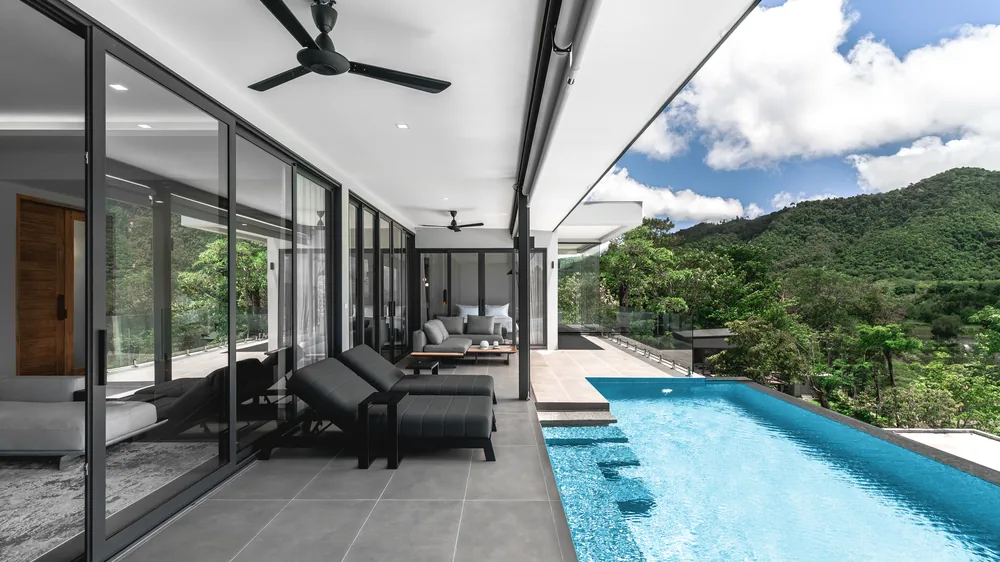
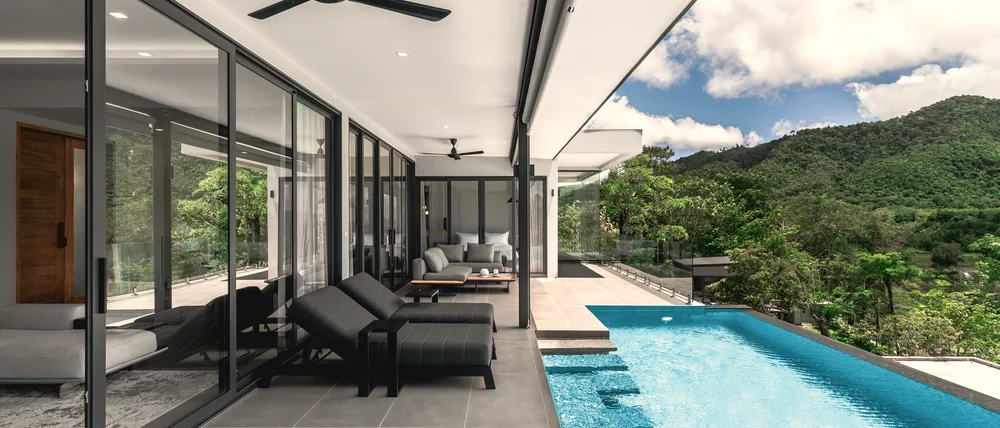
снимок в «Управлении»: полоса вместо простыни, и теплее под наши фото
Эльнур: «фото огроменная, запустил блок и даже фото не вместилось, очень
безвкусно» и «все фото на сайте тёплые, сделай её тоже чуть теплее».

Размер. Было 16:9 во всю ширину — на Маке это 1160×675, экран съеден целиком
и заголовок уезжает за край. Стало полосой 21:9 с потолком высоты
min(42vh, 420px): на том же Маке 1160×420, снимок крупный, но под ним сразу
виден текст. На телефоне по-прежнему 4:3 — там широкая полоса вырождается
в ниточку. Размеры в разметке обновлены, иначе страница дёргается при загрузке.

Тепло. Померил, а не на глаз: у наших фото R−B в среднем +12,2 — Katabello
+11,6, Sierra +34, Eden +10,3. У этого снимка было −8,7, то есть он холодный
и выбивался из ряда на двадцать один пункт. Поднял красный на 5,5%, приспустил
синий на 5,5%, зелёный не трогал. Стало +7,3 — теплее ряда не делаю, иначе
небо и вода уйдут в рыжину.

Claude-Session: https://claude.ai/code/session_01Kw4V7VyuJHJ7EJCHoawpoF

diff --git a/management.html b/management.html
@@ -1999,9 +1999,15 @@ body{background:var(--bg)}
    страница не дёргалась. object-fit:cover — на случай, если файл заменят другим.
    Правим ЗДЕСЬ: в index.html этот блок перезаписывается из build/parts. */
 .mng-hero{display:block;margin:0}
-.mng-hero img{display:block;width:100%;height:auto;aspect-ratio:16/9;object-fit:cover;
-  border-radius:24px;box-shadow:var(--shadow-sm)}
-@media(max-width:640px){ .mng-hero img{aspect-ratio:4/3;border-radius:18px} }
+/* 24.09, вторая правка. Эльнур: «фото огроменная, даже не вместилось, очень
+   безвкусно». Было 16:9 во всю ширину — на Маке это 1200×675, экран съеден
+   целиком и заголовок уезжает. Делаем полосой 21:9 и ставим потолок высоты:
+   снимок остаётся крупным, но под ним сразу виден текст. На телефоне
+   по-прежнему 4:3 — там широкая полоса вырождается в ниточку. */
+.mng-hero img{display:block;width:100%;height:auto;aspect-ratio:21/9;object-fit:cover;
+  max-height:min(42vh,420px);border-radius:22px;box-shadow:var(--shadow-sm)}
+@media(max-width:640px){
+  .mng-hero img{aspect-ratio:4/3;max-height:none;border-radius:18px} }
 
 /* Приём документа в кабинете: заметная зона под таблицей документов */
 .upzone{display:flex;flex-wrap:wrap;align-items:center;gap:10px;margin-top:12px;
@@ -2296,8 +2302,8 @@ body{background:var(--bg)}
 <section style="padding:18px 0 0"><div class="container">
   <picture class="mng-hero">
     <source media="(max-width:640px)" srcset="img/management-hero-mob-900.webp" width="900" height="600">
-    <source media="(max-width:1100px)" srcset="img/management-hero-1000.webp" width="1000" height="562">
-    <img src="img/management-hero-1600.webp" width="1600" height="900" loading="eager" decoding="async"
+    <source media="(max-width:1100px)" srcset="img/management-hero-1000.webp" width="1000" height="428">
+    <img src="img/management-hero-1600.webp" width="1600" height="685" loading="eager" decoding="async"
          alt="Терраса с бассейном на вилле под нашим управлением, Пхукет">
   </picture>
 </div></section>

diff --git a/about.html b/about.html
@@ -1891,9 +1891,15 @@ body{background:var(--bg)}
    страница не дёргалась. object-fit:cover — на случай, если файл заменят другим.
    Правим ЗДЕСЬ: в index.html этот блок перезаписывается из build/parts. */
 .mng-hero{display:block;margin:0}
-.mng-hero img{display:block;width:100%;height:auto;aspect-ratio:16/9;object-fit:cover;
-  border-radius:24px;box-shadow:var(--shadow-sm)}
-@media(max-width:640px){ .mng-hero img{aspect-ratio:4/3;border-radius:18px} }
+/* 24.09, вторая правка. Эльнур: «фото огроменная, даже не вместилось, очень
+   безвкусно». Было 16:9 во всю ширину — на Маке это 1200×675, экран съеден
+   целиком и заголовок уезжает. Делаем полосой 21:9 и ставим потолок высоты:
+   снимок остаётся крупным, но под ним сразу виден текст. На телефоне
+   по-прежнему 4:3 — там широкая полоса вырождается в ниточку. */
+.mng-hero img{display:block;width:100%;height:auto;aspect-ratio:21/9;object-fit:cover;
+  max-height:min(42vh,420px);border-radius:22px;box-shadow:var(--shadow-sm)}
+@media(max-width:640px){
+  .mng-hero img{aspect-ratio:4/3;max-height:none;border-radius:18px} }
 
 /* Приём документа в кабинете: заметная зона под таблицей документов */
 .upzone{display:flex;flex-wrap:wrap;align-items:center;gap:10px;margin-top:12px;

diff --git a/add-property.html b/add-property.html
@@ -1725,9 +1725,15 @@ body{background:var(--bg)}
    страница не дёргалась. object-fit:cover — на случай, если файл заменят другим.
    Правим ЗДЕСЬ: в index.html этот блок перезаписывается из build/parts. */
 .mng-hero{display:block;margin:0}
-.mng-hero img{display:block;width:100%;height:auto;aspect-ratio:16/9;object-fit:cover;
-  border-radius:24px;box-shadow:var(--shadow-sm)}
-@media(max-width:640px){ .mng-hero img{aspect-ratio:4/3;border-radius:18px} }
+/* 24.09, вторая правка. Эльнур: «фото огроменная, даже не вместилось, очень
+   безвкусно». Было 16:9 во всю ширину — на Маке это 1200×675, экран съеден
+   целиком и заголовок уезжает. Делаем полосой 21:9 и ставим потолок высоты:
+   снимок остаётся крупным, но под ним сразу виден текст. На телефоне
+   по-прежнему 4:3 — там широкая полоса вырождается в ниточку. */
+.mng-hero img{display:block;width:100%;height:auto;aspect-ratio:21/9;object-fit:cover;
+  max-height:min(42vh,420px);border-radius:22px;box-shadow:var(--shadow-sm)}
+@media(max-width:640px){
+  .mng-hero img{aspect-ratio:4/3;max-height:none;border-radius:18px} }
 
 /* Приём документа в кабинете: заметная зона под таблицей документов */
 .upzone{display:flex;flex-wrap:wrap;align-items:center;gap:10px;margin-top:12px;

diff --git a/buy.html b/buy.html
@@ -1999,9 +1999,15 @@ body{background:var(--bg)}
    страница не дёргалась. object-fit:cover — на случай, если файл заменят другим.
    Правим ЗДЕСЬ: в index.html этот блок перезаписывается из build/parts. */
 .mng-hero{display:block;margin:0}
-.mng-hero img{display:block;width:100%;height:auto;aspect-ratio:16/9;object-fit:cover;
-  border-radius:24px;box-shadow:var(--shadow-sm)}
-@media(max-width:640px){ .mng-hero img{aspect-ratio:4/3;border-radius:18px} }
+/* 24.09, вторая правка. Эльнур: «фото огроменная, даже не вместилось, очень
+   безвкусно». Было 16:9 во всю ширину — на Маке это 1200×675, экран съеден
+   целиком и заголовок уезжает. Делаем полосой 21:9 и ставим потолок высоты:
+   снимок остаётся крупным, но под ним сразу виден текст. На телефоне
+   по-прежнему 4:3 — там широкая полоса вырождается в ниточку. */
+.mng-hero img{display:block;width:100%;height:auto;aspect-ratio:21/9;object-fit:cover;
+  max-height:min(42vh,420px);border-radius:22px;box-shadow:var(--shadow-sm)}
+@media(max-width:640px){
+  .mng-hero img{aspect-ratio:4/3;max-height:none;border-radius:18px} }
 
 /* Приём документа в кабинете: заметная зона под таблицей документов */
 .upzone{display:flex;flex-wrap:wrap;align-items:center;gap:10px;margin-top:12px;

diff --git a/districts/bang-tao.html b/districts/bang-tao.html
@@ -1999,9 +1999,15 @@ body{background:var(--bg)}
    страница не дёргалась. object-fit:cover — на случай, если файл заменят другим.
    Правим ЗДЕСЬ: в index.html этот блок перезаписывается из build/parts. */
 .mng-hero{display:block;margin:0}
-.mng-hero img{display:block;width:100%;height:auto;aspect-ratio:16/9;object-fit:cover;
-  border-radius:24px;box-shadow:var(--shadow-sm)}
-@media(max-width:640px){ .mng-hero img{aspect-ratio:4/3;border-radius:18px} }
+/* 24.09, вторая правка. Эльнур: «фото огроменная, даже не вместилось, очень
+   безвкусно». Было 16:9 во всю ширину — на Маке это 1200×675, экран съеден
+   целиком и заголовок уезжает. Делаем полосой 21:9 и ставим потолок высоты:
+   снимок остаётся крупным, но под ним сразу виден текст. На телефоне
+   по-прежнему 4:3 — там широкая полоса вырождается в ниточку. */
+.mng-hero img{display:block;width:100%;height:auto;aspect-ratio:21/9;object-fit:cover;
+  max-height:min(42vh,420px);border-radius:22px;box-shadow:var(--shadow-sm)}
+@media(max-width:640px){
+  .mng-hero img{aspect-ratio:4/3;max-height:none;border-radius:18px} }
 
 /* Приём документа в кабинете: заметная зона под таблицей документов */
 .upzone{display:flex;flex-wrap:wrap;align-items:center;gap:10px;margin-top:12px;

diff --git a/districts/kamala.html b/districts/kamala.html
@@ -1999,9 +1999,15 @@ body{background:var(--bg)}
    страница не дёргалась. object-fit:cover — на случай, если файл заменят другим.
    Правим ЗДЕСЬ: в index.html этот блок перезаписывается из build/parts. */
 .mng-hero{display:block;margin:0}
-.mng-hero img{display:block;width:100%;height:auto;aspect-ratio:16/9;object-fit:cover;
-  border-radius:24px;box-shadow:var(--shadow-sm)}
-@media(max-width:640px){ .mng-hero img{aspect-ratio:4/3;border-radius:18px} }
+/* 24.09, вторая правка. Эльнур: «фото огроменная, даже не вместилось, очень
+   безвкусно». Было 16:9 во всю ширину — на Маке это 1200×675, экран съеден
+   целиком и заголовок уезжает. Делаем полосой 21:9 и ставим потолок высоты:
+   снимок остаётся крупным, но под ним сразу виден текст. На телефоне
+   по-прежнему 4:3 — там широкая полоса вырождается в ниточку. */
+.mng-hero img{display:block;width:100%;height:auto;aspect-ratio:21/9;object-fit:cover;
+  max-height:min(42vh,420px);border-radius:22px;box-shadow:var(--shadow-sm)}
+@media(max-width:640px){
+  .mng-hero img{aspect-ratio:4/3;max-height:none;border-radius:18px} }
 
 /* Приём документа в кабинете: заметная зона под таблицей документов */
 .upzone{display:flex;flex-wrap:wrap;align-items:center;gap:10px;margin-top:12px;

diff --git a/districts/kata.html b/districts/kata.html
@@ -1999,9 +1999,15 @@ body{background:var(--bg)}
    страница не дёргалась. object-fit:cover — на случай, если файл заменят другим.
    Правим ЗДЕСЬ: в index.html этот блок перезаписывается из build/parts. */
 .mng-hero{display:block;margin:0}
-.mng-hero img{display:block;width:100%;height:auto;aspect-ratio:16/9;object-fit:cover;
-  border-radius:24px;box-shadow:var(--shadow-sm)}
-@media(max-width:640px){ .mng-hero img{aspect-ratio:4/3;border-radius:18px} }
+/* 24.09, вторая правка. Эльнур: «фото огроменная, даже не вместилось, очень
+   безвкусно». Было 16:9 во всю ширину — на Маке это 1200×675, экран съеден
+   целиком и заголовок уезжает. Делаем полосой 21:9 и ставим потолок высоты:
+   снимок остаётся крупным, но под ним сразу виден текст. На телефоне
+   по-прежнему 4:3 — там широкая полоса вырождается в ниточку. */
+.mng-hero img{display:block;width:100%;height:auto;aspect-ratio:21/9;object-fit:cover;
+  max-height:min(42vh,420px);border-radius:22px;box-shadow:var(--shadow-sm)}
+@media(max-width:640px){
+  .mng-hero img{aspect-ratio:4/3;max-height:none;border-radius:18px} }
 
 /* Приём документа в кабинете: заметная зона под таблицей документов */
 .upzone{display:flex;flex-wrap:wrap;align-items:center;gap:10px;margin-top:12px;

diff --git a/districts/koh-kaew.html b/districts/koh-kaew.html
@@ -1999,9 +1999,15 @@ body{background:var(--bg)}
    страница не дёргалась. object-fit:cover — на случай, если файл заменят другим.
    Правим ЗДЕСЬ: в index.html этот блок перезаписывается из build/parts. */
 .mng-hero{display:block;margin:0}
-.mng-hero img{display:block;width:100%;height:auto;aspect-ratio:16/9;object-fit:cover;
-  border-radius:24px;box-shadow:var(--shadow-sm)}
-@media(max-width:640px){ .mng-hero img{aspect-ratio:4/3;border-radius:18px} }
+/* 24.09, вторая правка. Эльнур: «фото огроменная, даже не вместилось, очень
+   безвкусно». Было 16:9 во всю ширину — на Маке это 1200×675, экран съеден
+   целиком и заголовок уезжает. Делаем полосой 21:9 и ставим потолок высоты:
+   снимок остаётся крупным, но под ним сразу виден текст. На телефоне
+   по-прежнему 4:3 — там широкая полоса вырождается в ниточку. */
+.mng-hero img{display:block;width:100%;height:auto;aspect-ratio:21/9;object-fit:cover;
+  max-height:min(42vh,420px);border-radius:22px;box-shadow:var(--shadow-sm)}
+@media(max-width:640px){
+  .mng-hero img{aspect-ratio:4/3;max-height:none;border-radius:18px} }
 
 /* Приём документа в кабинете: заметная зона под таблицей документов */
 .upzone{display:flex;flex-wrap:wrap;align-items:center;gap:10px;margin-top:12px;

diff --git a/districts/layan.html b/districts/layan.html
@@ -1999,9 +1999,15 @@ body{background:var(--bg)}
    страница не дёргалась. object-fit:cover — на случай, если файл заменят другим.
    Правим ЗДЕСЬ: в index.html этот блок перезаписывается из build/parts. */
 .mng-hero{display:block;margin:0}
-.mng-hero img{display:block;width:100%;height:auto;aspect-ratio:16/9;object-fit:cover;
-  border-radius:24px;box-shadow:var(--shadow-sm)}
-@media(max-width:640px){ .mng-hero img{aspect-ratio:4/3;border-radius:18px} }
+/* 24.09, вторая правка. Эльнур: «фото огроменная, даже не вместилось, очень
+   безвкусно». Было 16:9 во всю ширину — на Маке это 1200×675, экран съеден
+   целиком и заголовок уезжает. Делаем полосой 21:9 и ставим потолок высоты:
+   снимок остаётся крупным, но под ним сразу виден текст. На телефоне
+   по-прежнему 4:3 — там широкая полоса вырождается в ниточку. */
+.mng-hero img{display:block;width:100%;height:auto;aspect-ratio:21/9;object-fit:cover;
+  max-height:min(42vh,420px);border-radius:22px;box-shadow:var(--shadow-sm)}
+@media(max-width:640px){
+  .mng-hero img{aspect-ratio:4/3;max-height:none;border-radius:18px} }
 
 /* Приём документа в кабинете: заметная зона под таблицей документов */
 .upzone{display:flex;flex-wrap:wrap;align-items:center;gap:10px;margin-top:12px;

diff --git a/districts/nai-yang.html b/districts/nai-yang.html
@@ -1999,9 +1999,15 @@ body{background:var(--bg)}
    страница не дёргалась. object-fit:cover — на случай, если файл заменят другим.
    Правим ЗДЕСЬ: в index.html этот блок перезаписывается из build/parts. */
 .mng-hero{display:block;margin:0}
-.mng-hero img{display:block;width:100%;height:auto;aspect-ratio:16/9;object-fit:cover;
-  border-radius:24px;box-shadow:var(--shadow-sm)}
-@media(max-width:640px){ .mng-hero img{aspect-ratio:4/3;border-radius:18px} }
+/* 24.09, вторая правка. Эльнур: «фото огроменная, даже не вместилось, очень
+   безвкусно». Было 16:9 во всю ширину — на Маке это 1200×675, экран съеден
+   целиком и заголовок уезжает. Делаем полосой 21:9 и ставим потолок высоты:
+   снимок остаётся крупным, но под ним сразу виден текст. На телефоне
+   по-прежнему 4:3 — там широкая полоса вырождается в ниточку. */
+.mng-hero img{display:block;width:100%;height:auto;aspect-ratio:21/9;object-fit:cover;
+  max-height:min(42vh,420px);border-radius:22px;box-shadow:var(--shadow-sm)}
+@media(max-width:640px){
+  .mng-hero img{aspect-ratio:4/3;max-height:none;border-radius:18px} }
 
 /* Приём документа в кабинете: заметная зона под таблицей документов */
 .upzone{display:flex;flex-wrap:wrap;align-items:center;gap:10px;margin-top:12px;

diff --git a/districts/rawai.html b/districts/rawai.html
@@ -1999,9 +1999,15 @@ body{background:var(--bg)}
    страница не дёргалась. object-fit:cover — на случай, если файл заменят другим.
    Правим ЗДЕСЬ: в index.html этот блок перезаписывается из build/parts. */
 .mng-hero{display:block;margin:0}
-.mng-hero img{display:block;width:100%;height:auto;aspect-ratio:16/9;object-fit:cover;
-  border-radius:24px;box-shadow:var(--shadow-sm)}
-@media(max-width:640px){ .mng-hero img{aspect-ratio:4/3;border-radius:18px} }
+/* 24.09, вторая правка. Эльнур: «фото огроменная, даже не вместилось, очень
+   безвкусно». Было 16:9 во всю ширину — на Маке это 1200×675, экран съеден
+   целиком и заголовок уезжает. Делаем полосой 21:9 и ставим потолок высоты:
+   снимок остаётся крупным, но под ним сразу виден текст. На телефоне
+   по-прежнему 4:3 — там широкая полоса вырождается в ниточку. */
+.mng-hero img{display:block;width:100%;height:auto;aspect-ratio:21/9;object-fit:cover;
+  max-height:min(42vh,420px);border-radius:22px;box-shadow:var(--shadow-sm)}
+@media(max-width:640px){
+  .mng-hero img{aspect-ratio:4/3;max-height:none;border-radius:18px} }
 
 /* Приём документа в кабинете: заметная зона под таблицей документов */
 .upzone{display:flex;flex-wrap:wrap;align-items:center;gap:10px;margin-top:12px;

diff --git a/districts/surin.html b/districts/surin.html
@@ -1999,9 +1999,15 @@ body{background:var(--bg)}
    страница не дёргалась. object-fit:cover — на случай, если файл заменят другим.
    Правим ЗДЕСЬ: в index.html этот блок перезаписывается из build/parts. */
 .mng-hero{display:block;margin:0}
-.mng-hero img{display:block;width:100%;height:auto;aspect-ratio:16/9;object-fit:cover;
-  border-radius:24px;box-shadow:var(--shadow-sm)}
-@media(max-width:640px){ .mng-hero img{aspect-ratio:4/3;border-radius:18px} }
+/* 24.09, вторая правка. Эльнур: «фото огроменная, даже не вместилось, очень
+   безвкусно». Было 16:9 во всю ширину — на Маке это 1200×675, экран съеден
+   целиком и заголовок уезжает. Делаем полосой 21:9 и ставим потолок высоты:
+   снимок остаётся крупным, но под ним сразу виден текст. На телефоне
+   по-прежнему 4:3 — там широкая полоса вырождается в ниточку. */
+.mng-hero img{display:block;width:100%;height:auto;aspect-ratio:21/9;object-fit:cover;
+  max-height:min(42vh,420px);border-radius:22px;box-shadow:var(--shadow-sm)}
+@media(max-width:640px){
+  .mng-hero img{aspect-ratio:4/3;max-height:none;border-radius:18px} }
 
 /* Приём документа в кабинете: заметная зона под таблицей документов */
 .upzone{display:flex;flex-wrap:wrap;align-items:center;gap:10px;margin-top:12px;
